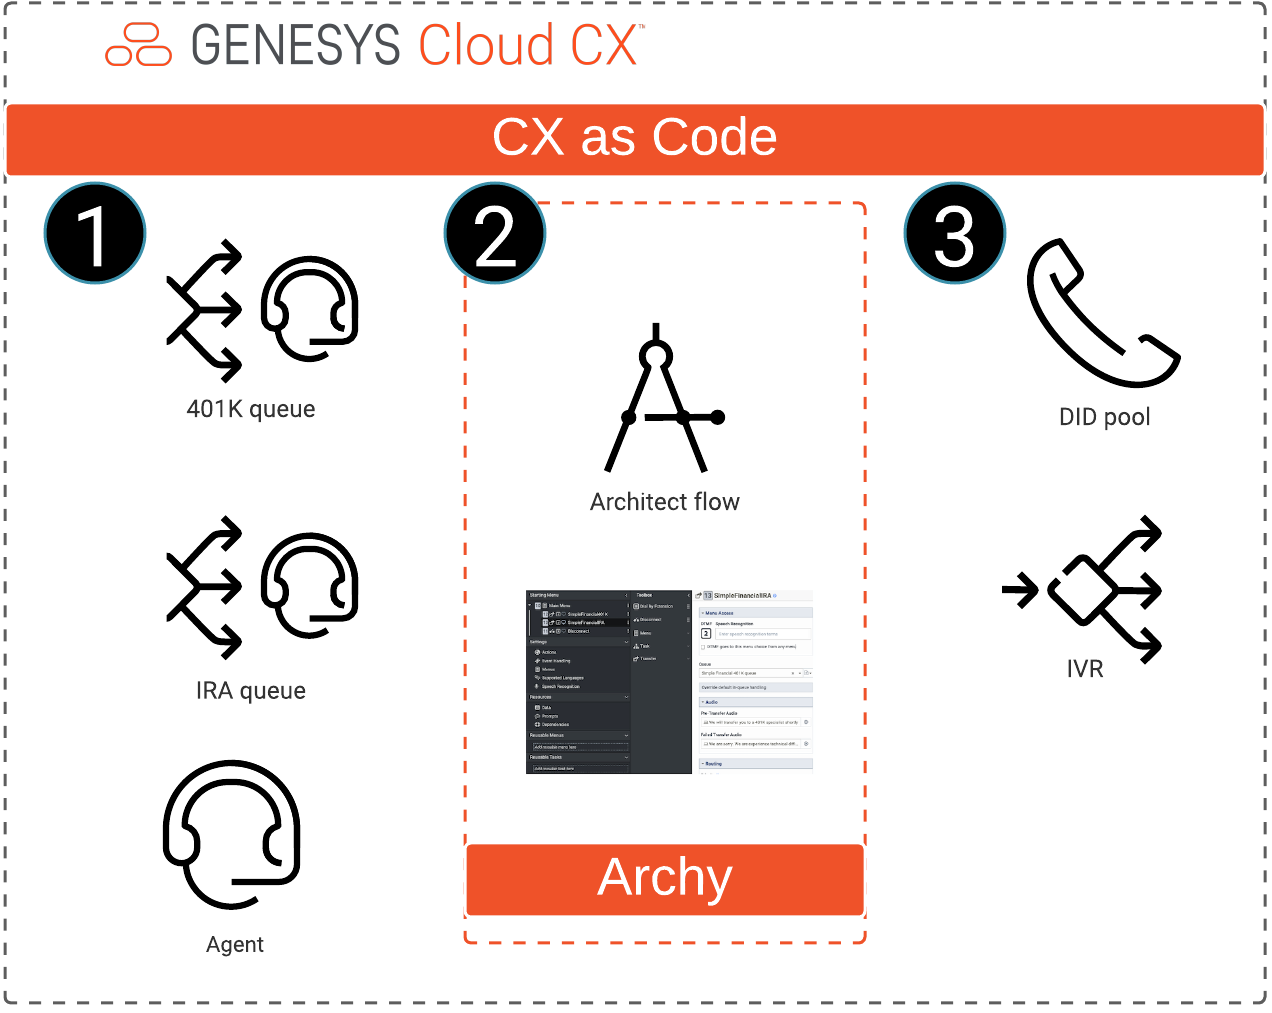
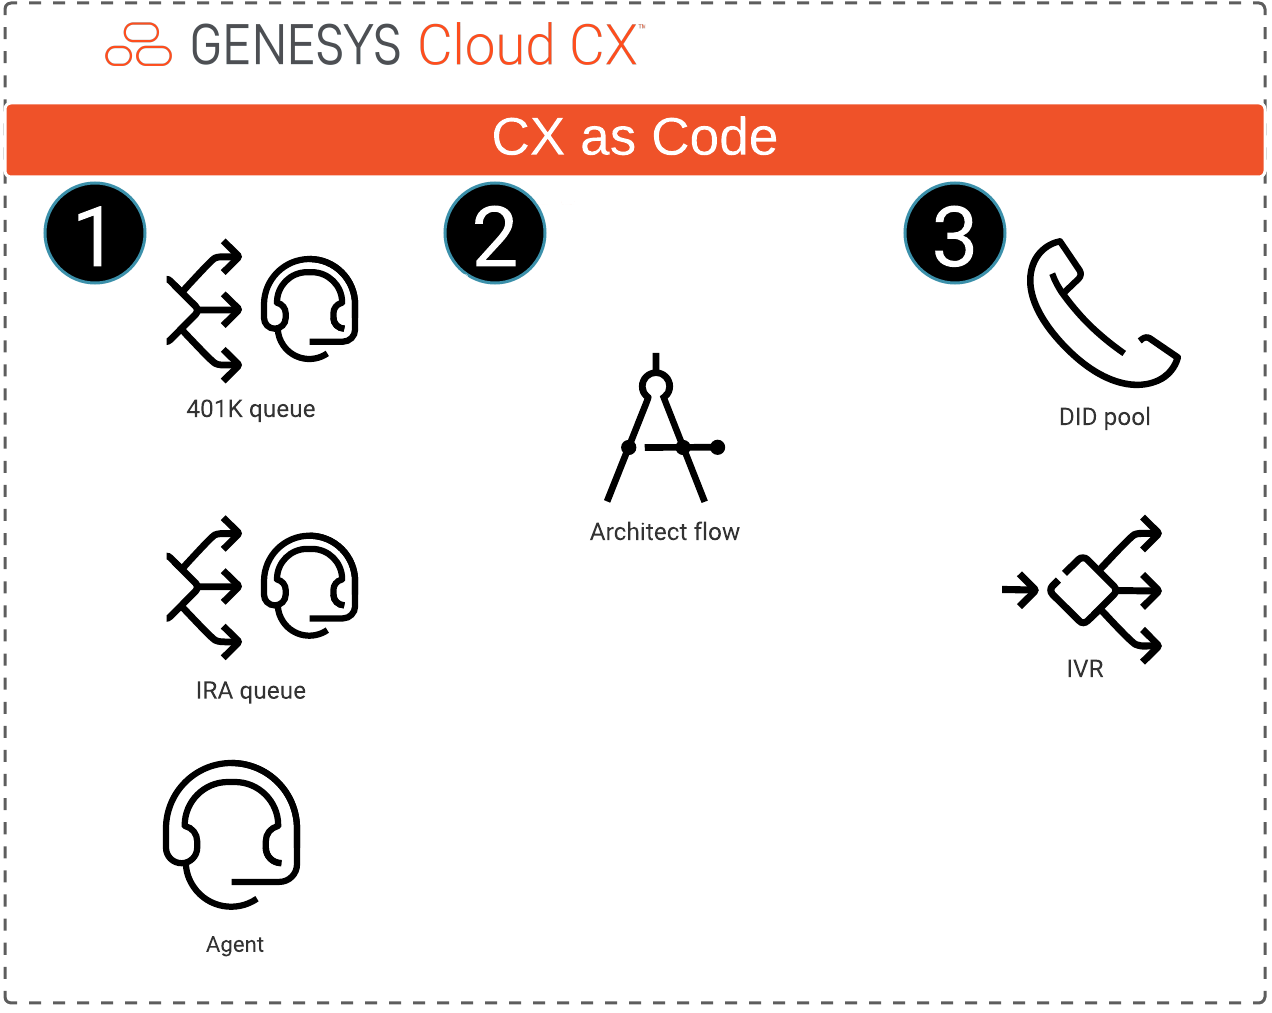
Replace Archy implementation with CX as Code

Changed region(s): [[0.3986, 0.5814, 0.6439, 0.7651], [0.3679, 0.8263, 0.7052, 0.9181], [0.4599, 0.306, 0.5825, 0.5508]]

diff --git a/blueprint/index.md b/blueprint/index.md
@@ -1,21 +1,21 @@
 ---
-title: Deploy a simple IVR using Terraform, CX as Code, and Archy
+title: Deploy a simple IVR using Terraform and CX as Code
 author: john.carnell
 indextype: blueprint
 icon: blueprint
 image: images/SimpleIvrFlowDeploy.png
 category: 5
 summary: |
-  This Genesys Cloud Developer Blueprint provides a simple example of how to deploy a touch-tone based IVR using Terraform, CX as Code, and Archy.  
+  This Genesys Cloud Developer Blueprint provides a simple example of how to deploy a touch-tone based IVR using Terraform and CX as Code.  
 ---
 
-This Genesys Cloud Developer Blueprint provides a simple example of how to deploy a touch-tone based IVR using Terraform, CX as Code, and Archy.
+This Genesys Cloud Developer Blueprint provides a simple example of how to deploy a touch-tone based IVR using Terraform and CX as Code.
 
 This blueprint demonstrates how to:
 
 * Create users using CX as Code
 * Create queues using CX as Code
-* Deploy a simple IVR flow using Archy from within a CX as Code flow
+* Deploy a simple IVR flow using CX as Code
 * Attach a DID phone number to the deployed IVR flow
 
 ## Scenario
@@ -24,19 +24,15 @@ An organization is interested in deploying a Genesys Cloud Architect flow and it
 
 ## Solution
 
-Developers use Archy and CX as Code to manage their Architect flow and dependent objects as plain text files. After these objects are defined they can be deployed to Genesys Cloud using Terraform.
+Developers use CX as Code to manage their Architect flow and dependent objects as plain text files. After these objects are defined they can be deployed to Genesys Cloud using Terraform.
 
-![Deploy a simple IVR using Terraform, CX as Code, and Archy](images/SimpleIvrFlowDeploy.png "Deploy a simple IVR using Terraform, CX as Code, and Archy")
+![Deploy a simple IVR using Terraform and CX as Code](images/SimpleIvrFlowDeploy.png "Deploy a simple IVR using Terraform and CX as Code")
 
 The following are the deployment phases of Genesys Cloud objects within this flow:
 
-1. **Pre-Archy invocation**. Queues and users need to be created before the IVR Architect flow is deployed so that it deploys successfully.  
-2. **Archy flow deployment**. The Architect flow is deployed from within CX as Code using the Archy CLI.
-3. **Post-Archy invocation**. CX as Code creates the DID pool that contains the phone number for the IVR. Then CX as Code creates the IVR configuration.
-
-:::primary
-**Note: After the Archy flow creates the IVR, there is still a post-configuration step to make it available for use.**
-:::
+1. Creation of queues and users.
+2. Deployment of inbound call flow.
+3. Creation of DID pool which includes the DID to be configured in the IVR.
 
 ## Contents
 
@@ -48,7 +44,6 @@ The following are the deployment phases of Genesys Cloud objects within this flo
 ## Solution components
 
 * **Genesys Cloud** - A suite of Genesys Cloud services for enterprise-grade communications, collaboration, and contact center management. In this solution, you use an Architect IVR and in-bound call flows.
-* **Archy** - A Genesys Cloud command-line tool for building and managing Architect flows.
 * **CX as Code** - A Genesys Cloud Terraform provider that provides a command line interface for declaring core Genesys Cloud objects.
 
 ## Prerequisites
@@ -57,16 +52,15 @@ The following are the deployment phases of Genesys Cloud objects within this flo
 
 * Administrator-level knowledge of Genesys Cloud
 * Experience using Terraform
-* Experience using Archy
 
 ### Genesys Cloud account
 
 * A Genesys Cloud license. For more information, see [Genesys Cloud Pricing](https://www.genesys.com/pricing "Opens the Genesys Cloud pricing page") in the Genesys website.
 * Master Admin role. For more information, see [Roles and permissions overview](https://help.mypurecloud.com/?p=24360 "Opens the Roles and permissions overview article") in the Genesys Cloud Resource Center.
-* Archy. For more information, see [Welcome to Archy](/devapps/archy/ "Goes to the Welcome to Archy page").
 * CX as Code. For more information, see [CX as Code](https://developer.genesys.cloud/api/rest/CX-as-Code/ "Opens the CX as Code page").
 
 ### Development tools running in your local environment
+
 * Terraform (the latest binary). For more information, see [Download Terraform](https://www.terraform.io/downloads.html "Opens the Download Terraform page") in the Terraform website.
 
 ## Implementation steps
@@ -88,9 +82,6 @@ resource "genesyscloud_telephony_providers_edges_did_pool" "mygcv_number" {
   end_phone_number   = "+19205422729"              # This needs to be changed
   description        = "GCV Number for inbound calls"
   comments           = "Additional comments"
-  depends_on = [
-    null_resource.deploy_archy_flow
-  ]
 }
 
 resource "genesyscloud_architect_ivr" "mysimple_ivr" {
@@ -98,7 +89,10 @@ resource "genesyscloud_architect_ivr" "mysimple_ivr" {
   description        = "A sample IVR configuration"
   dnis               = ["+19205422729", "+19205422729"]  # This needs to be changed
   open_hours_flow_id = data.genesyscloud_flow.mysimpleflow.id
-  depends_on         = [genesyscloud_telephony_providers_edges_did_pool.mygcv_number]
+  depends_on         = [
+    genesyscloud_flow.mysimpleflow,
+    genesyscloud_telephony_providers_edges_did_pool.mygcv_number
+  ]
 }
 ```
 
@@ -118,5 +112,4 @@ Dial the phone number you entered in the blueprint/main.tf file. If everything d
 * [Terraform](https://terraform.io "Opens the Terraform Cloud sign page") in the Terraform website
 * [CX as Code](https://developer.genesys.cloud/api/rest/CX-as-Code/ "Opens the CX as Code page") in the Genesys Cloud Developer Center
 * [Terraform Registry Documentation](https://registry.terraform.io/providers/MyPureCloud/genesyscloud/latest/docs "Opens the Genesys Cloud provider page") in the Terraform documentation
-* [Genesys Cloud Archy](https://developer.genesys.cloud/devapps/archy/ "Opens the Genesys Cloud Archy documentation") in Genesys Cloud Developer Center
 * [simple-ivr-deploy-with-cx-as-code-blueprint repository](https://github.com/GenesysCloudBlueprints/simple-ivr-deploy-with-cx-as-code-blueprint "Goes to the simple-ivr-deploy-with-cx-as-code-blueprint repository") in Github

diff --git a/README.md b/README.md
@@ -1,5 +1,5 @@
-# Deploy a simple IVR using Terraform, CX as Code, and Archy
+# Deploy a simple IVR using Terraform and CX as Code
 
-> View the full [Deploy a simple IVR using Terraform, CX as Code, and Archy](https://developer.mypurecloud.com/blueprints/) article on the Genesys Cloud Developer Center. This Genesys Cloud Developer Blueprint provides a simple example of how to deploy a touch-tone based IVR using Terraform, CX as Code, and Archy.  
+> View the full [Deploy a simple IVR using Terraform and CX as Code](https://developer.mypurecloud.com/blueprints/) article on the Genesys Cloud Developer Center. This Genesys Cloud Developer Blueprint provides a simple example of how to deploy a touch-tone based IVR using Terraform and CX as Code.  
 
-![Deploy a simple IVR using Terraform, CX as Code, and Archy](blueprint/images/SimpleIvrFlowDeploy.png "Deploy a simple IVR using Terraform, CX as Code, and Archy")
+![Deploy a simple IVR using Terraform and CX as Code](blueprint/images/SimpleIvrFlowDeploy.png "Deploy a simple IVR using Terraform and CX as Code")
